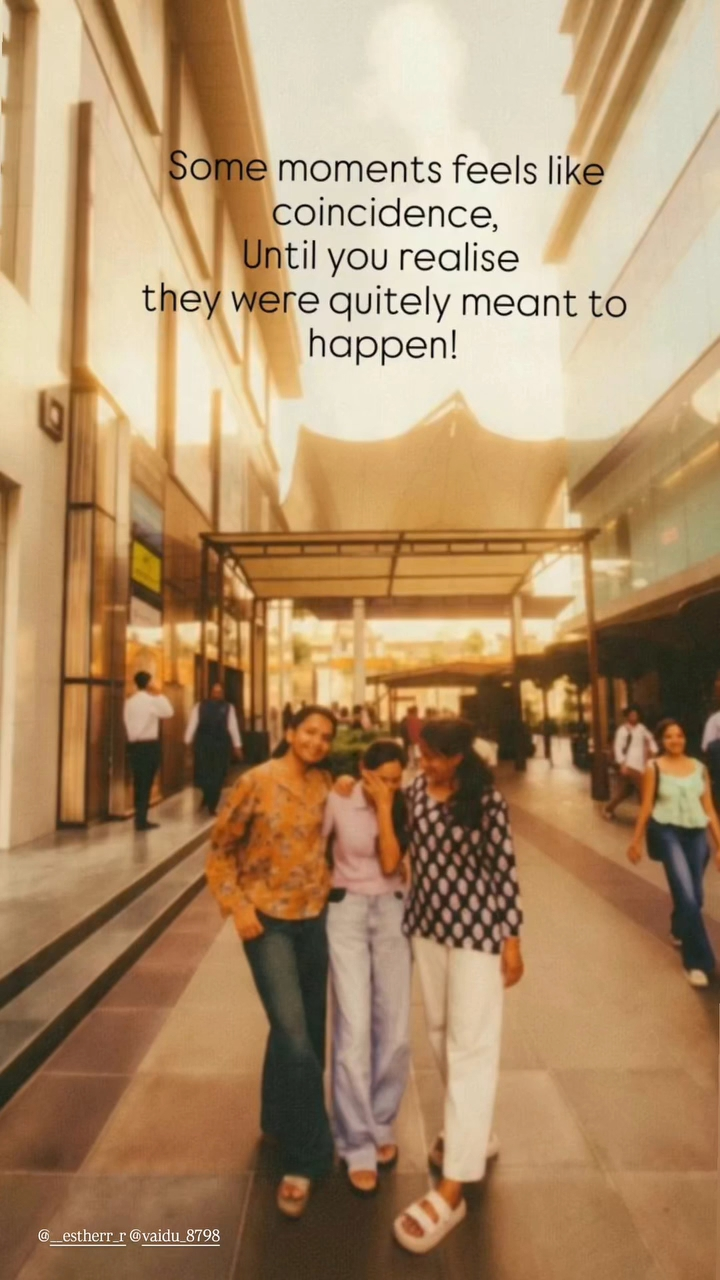
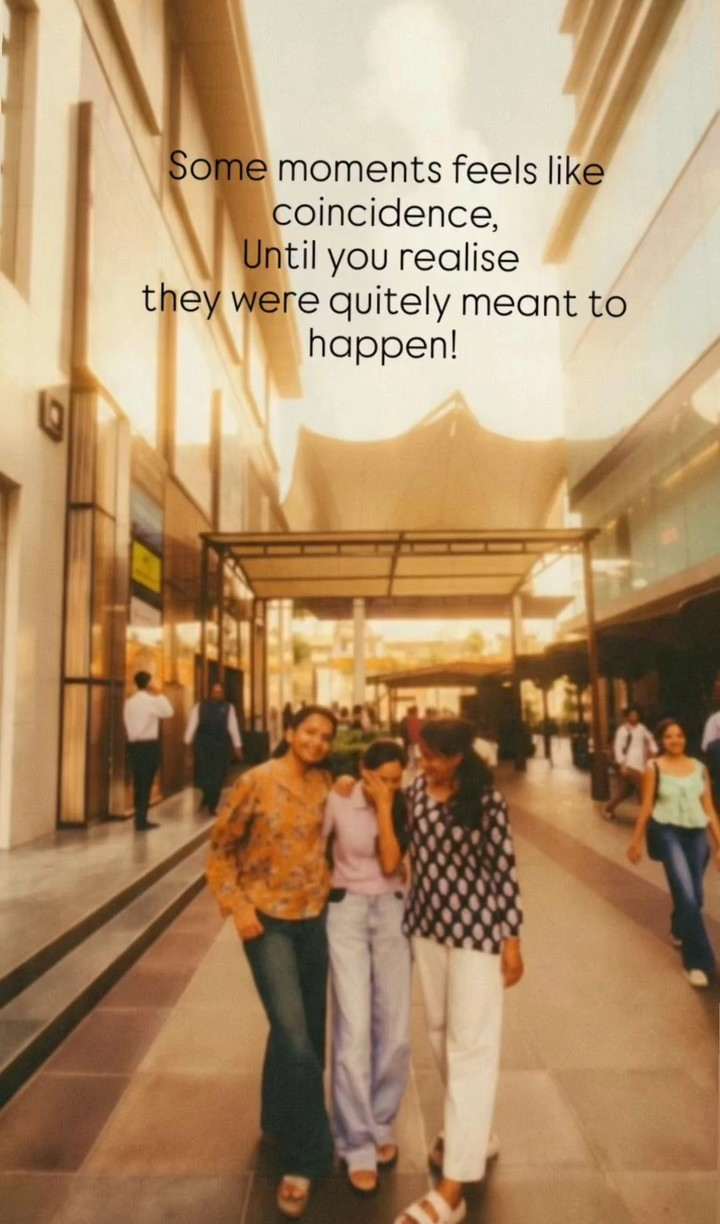
Image and neha menu

diff --git a/Neha.html b/Neha.html
@@ -448,30 +448,30 @@
 
 
           <li class="moment reveal">
-            <div class="moment-frame">
+            <figure class="moment-reel">
               <video src="assets/Neha/2amDuty.mp4" controls playsinline preload="metadata"></video>
-            </div>
+            </figure>
             <p class="moment-label">2 AM duty</p>
           </li>
 
           <li class="moment reveal" style="--delay: 40ms">
-            <div class="moment-frame">
+            <figure class="moment-reel">
               <video src="assets/Neha/Duty.mp4" controls playsinline preload="metadata"></video>
-            </div>
+            </figure>
             <p class="moment-label">Duty moments</p>
           </li>
 
           <li class="moment reveal" style="--delay: 80ms">
-            <div class="moment-frame">
+            <figure class="moment-reel">
               <video src="assets/Neha/NeverBacksdownFromChallenge.mp4" controls playsinline preload="metadata"></video>
-            </div>
+            </figure>
             <p class="moment-label">Never backs down</p>
           </li>
 
           <li class="moment reveal">
-            <div class="moment-frame">
+            <figure class="moment-reel">
               <video src="assets/Neha/Dance.mp4" controls playsinline preload="metadata"></video>
-            </div>
+            </figure>
             <p class="moment-label">Off duty</p>
           </li>
         </ul>
@@ -1003,67 +1003,43 @@
 
   <style>
     /* Neha mobile responsiveness */
-    @media (max-width: 1024px) {
-      .nav-toggle {
-        display: inline-flex;
-      }
-      .nav-menu {
-        position: absolute;
-        top: 100%;
-        left: 0;
-        right: 0;
-        flex-direction: column;
-        align-items: stretch;
-        background: rgba(10, 51, 35, 0.98);
-        backdrop-filter: blur(12px);
-        border-bottom: 1px solid rgba(247, 244, 213, 0.12);
-        padding: 0.75rem 0;
-        gap: 0;
-        display: none;
-        box-shadow: 0 20px 40px rgba(6, 20, 15, 0.4);
-      }
-      .nav-menu.is-open {
-        display: flex;
-      }
-      .nav-links {
-        flex-direction: column;
-        width: 100%;
-        gap: 0;
-      }
-      .nav-links li {
-        width: 100%;
-      }
-      .nav-links a {
-        display: block;
-        width: 100%;
-        padding: 0.75rem clamp(1.25rem, 6vw, 2.5rem);
-      }
-      .nav-cta {
-        align-self: flex-start;
-        margin: 0.5rem clamp(1.25rem, 6vw, 2.5rem) 0;
-      }
+
+    /* Moments videos - match Trio style */
+    .moment-reel {
+      position: relative;
+      width: 100%;
+      aspect-ratio: 9 / 16;
+      margin: 0;
+      border-radius: 16px;
+      overflow: hidden;
+      background: #0b1512;
+      box-shadow: 0 18px 40px rgba(10, 51, 35, 0.18);
+    }
+
+    .moment-reel video {
+      width: 100%;
+      height: 100%;
+      display: block;
+      object-fit: cover;
+      cursor: pointer;
     }
 
     @media (max-width: 680px) {
+      html {
+        scroll-padding-top: 90px;
+      }
       .hero-grid {
         grid-template-columns: 1fr;
         gap: clamp(1.75rem, 6vw, 2.5rem);
-        text-align: center;
       }
       .hero-content {
-        align-items: center;
-      }
-      .hero-text,
-      .hero-subtitle {
-        margin-inline: auto;
-      }
-      .hero-actions {
-        justify-content: center;
-        flex-wrap: wrap;
+        text-align: left;
+        max-width: none;
       }
       .hero-figure {
         order: -1;
-        max-width: min(380px, 88vw);
+        justify-self: center;
+        width: min(100%, 420px);
         margin: 0 auto;
       }
 
@@ -1089,15 +1065,21 @@
         height: auto;
         display: block;
       }
-      .moment-frame video {
+      .moment-reel {
+        width: 100%;
+        max-width: 320px;
+        margin-inline: auto;
+      }
+      .moment-reel video {
         width: 100%;
         height: 100%;
         display: block;
-        aspect-ratio: 3/4;
+        aspect-ratio: 9 / 16;
         object-fit: cover;
       }
       .moment-label {
         font-size: 0.95rem;
+        text-align: center;
       }
 
       .content-head {
@@ -1151,7 +1133,10 @@
       .content-card {
         padding: clamp(1.25rem, 6vw, 1.75rem);
       }
-      .moment-frame video {
+      .moment-reel {
+        max-width: min(300px, 88vw);
+      }
+      .moment-reel video {
         aspect-ratio: 9/16;
       }
     }
